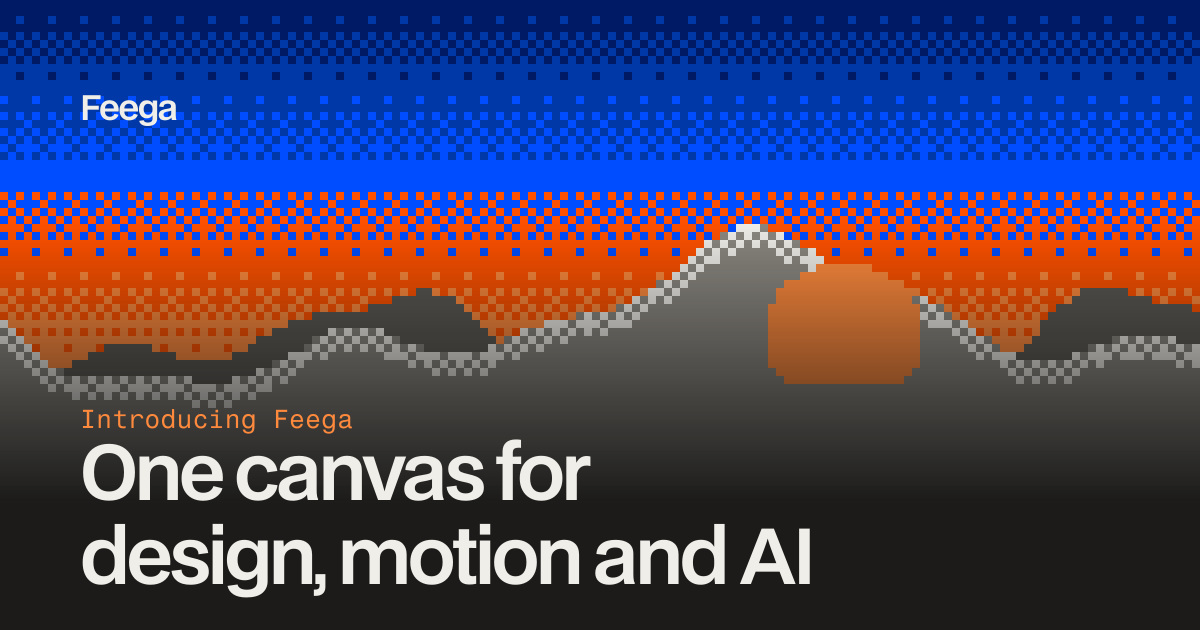
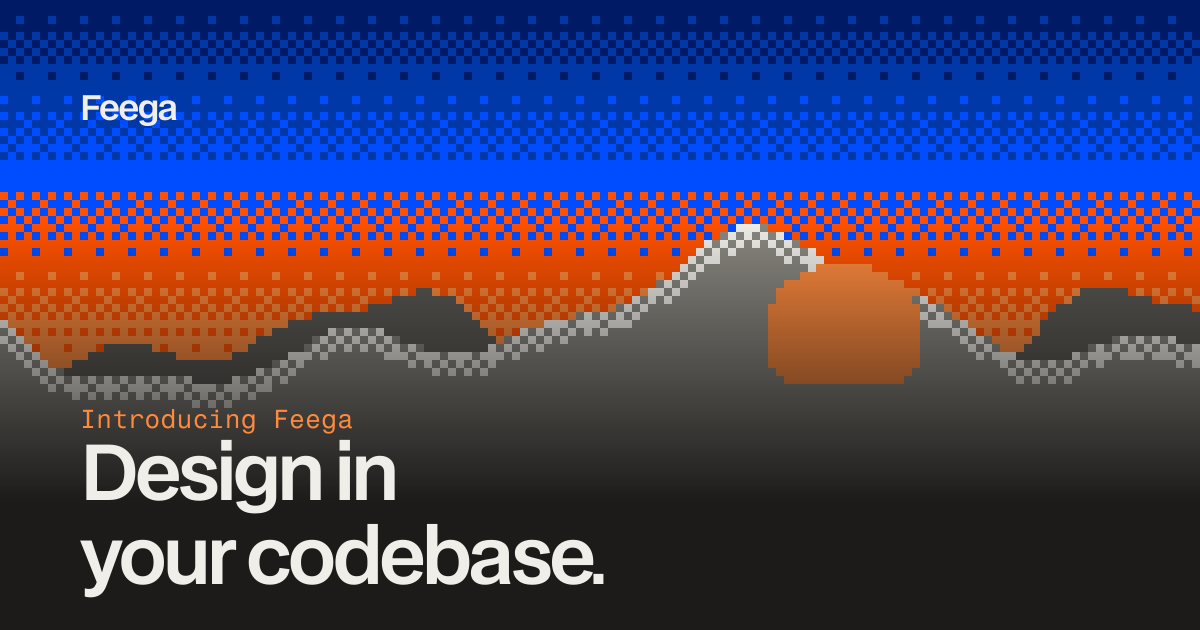
Make the blog describe the current Feega
Rewrite the introduction for the VS Code extension, keeping its URL
and date and adding an updated date. Mark the two posts about the
removed canvas as archived: banner, noindex, out of the index, feed,
sitemap and tags. Fix blog-wide copy and the intro cover. Add tests
for archiving and internal links.

Claude-Session: https://claude.ai/code/session_01C5atbF7JLacUVDaMn8zaP5

Changed region(s): [[0.0617, 0.6937, 0.6783, 0.9651]]

diff --git a/web-blog/src/site.ts b/web-blog/src/site.ts
@@ -1,12 +1,12 @@
 import { getCollection, type CollectionEntry } from 'astro:content';
 
 export const SITE_TITLE = 'Feega blog';
-export const SITE_DESCRIPTION = 'Notes from building Feega, the open-source canvas to design, animate and generate inside your code.';
+export const SITE_DESCRIPTION = 'Notes from building Feega, the free, open-source VS Code extension to design in your codebase.';
 
 export const SOCIAL_PREVIEW = {
   image: 'https://feega.app/og.png',
   video: 'https://feega.app/og.mp4',
-  alt: 'Feega: Design inside your code with your agents and team. An isometric canvas where code becomes a design, a layout gets a timeline and a prompt wires into image and video nodes.',
+  alt: 'Feega: Design inside your code with your agents and team. An isometric illustration of page layouts stacked above the code they come from.',
   width: 1200,
   height: 630
 } as const;
@@ -27,16 +27,26 @@ function newestFirst<T extends Entry>(entries: T[]): T[] {
   return entries.sort((a, b) => b.data.date.valueOf() - a.data.date.valueOf());
 }
 
-export async function postsNewestFirst(): Promise<Post[]> {
+const isCurrent = (entry: Entry): boolean => !entry.data.archived;
+
+export const CURRENT_FEEGA_URL = 'https://www.feega.app';
+
+export const ARCHIVED_BANNER = 'This post describes an earlier version of Feega that no longer exists.';
+
+export async function allPosts(): Promise<Post[]> {
   return newestFirst(await getCollection('posts'));
 }
 
+export async function postsNewestFirst(): Promise<Post[]> {
+  return newestFirst(await getCollection('posts', isCurrent));
+}
+
 export async function useCasesNewestFirst(): Promise<UseCase[]> {
-  return newestFirst(await getCollection('usecases'));
+  return newestFirst(await getCollection('usecases', isCurrent));
 }
 
 export async function allNewestFirst(): Promise<Entry[]> {
-  return newestFirst([...(await getCollection('posts')), ...(await getCollection('usecases'))]);
+  return newestFirst([...(await getCollection('posts', isCurrent)), ...(await getCollection('usecases', isCurrent))]);
 }
 
 export function sectionOf(entry: Entry): Section {

diff --git a/web-blog/src/styles/blog.css b/web-blog/src/styles/blog.css
@@ -144,3 +144,4 @@ a:hover { color: var(--sx-accent); }
 .cta-body p { margin: 0 0 var(--sx-s5); }
 .prose .cta-box .sx-pill { text-decoration: none; }
 .prose .cta-box .sx-pill:hover { color: #fff; }
+.archived-banner { margin: 0 0 var(--sx-s5); padding: var(--sx-s4) var(--sx-s5); border: 1px solid var(--sx-line); border-radius: var(--sx-radius-lg); background: var(--sx-grey-1); }

diff --git a/web-blog/src/content.config.ts b/web-blog/src/content.config.ts
@@ -5,6 +5,8 @@ const entrySchema = z.object({
   title: z.string(),
   description: z.string(),
   date: z.coerce.date(),
+  updated: z.coerce.date().optional(),
+  archived: z.boolean().default(false),
   cover: z.string(),
   coverAlt: z.string(),
   tags: z.array(z.string()).default([]),
